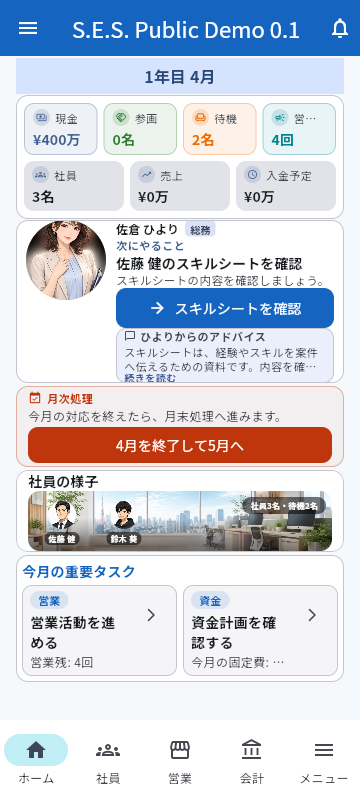
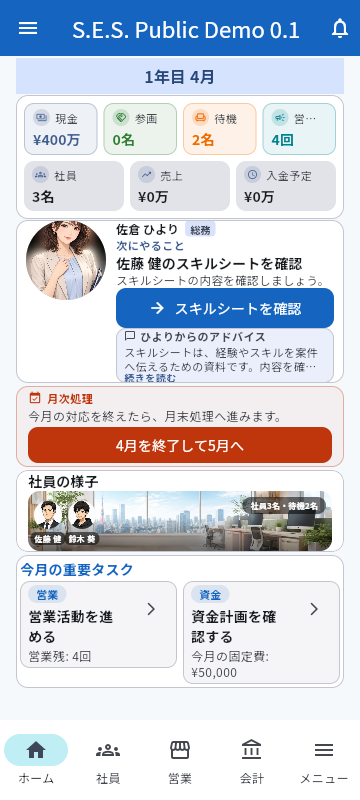
PR #182 Codex P2 fixes: finance-fact wrap, caption-only widen, drop bogus scroll check
Fixes all 3 P2 review comments on PR #182 without opening a new PR.

P2-1 (public_demo_home_presentation_components.dart): the 2-column grid
halved each tile's width, so the finance task's only supporting fact
("今月の固定費: ¥50,000") got ellipsized at maxLines:1, and a lone leftover
task still sat in a half-width Expanded next to an empty reserved half.
Fixed by allowing item.fact to wrap to 2 lines (real production text now
fits at both 360px/390px, confirmed by a new test) and by giving a lone
item the full row instead of an unused reserved half. Reclaimed the extra
height from non-content padding (_ImportantTaskCell and _HomeSectionCard
vertical padding trimmed further) to keep 360x800 maxScrollExtent == 0.

P2-2 (home_office_stage_section.dart): the first name-truncation fix
widened the whole figure *slot* to portraitSize * 2.0, which doubled how
much width every figure reserves from the shared Row -- at 4+ employees
(3 figures + the "+N" chip) that grew enough to intrude under the
top-right headcount summary chip. Fixed by reverting the slot width to
exactly portraitSize (identical to every existing layout-safety
measurement) and instead letting only the name caption paint wider via
OverflowBox, which doesn't add anything to what the figure reserves.
OverflowBox needs an IntrinsicHeight wrapper: left unbounded, it reports
the ambient Column's unbounded height as its own size, which produced a
NaN in Alignment.topCenter's offset math and crashed rendering -- caught
[…]

diff --git a/lib/presentation/home/widgets/home_office_stage_section.dart b/lib/presentation/home/widgets/home_office_stage_section.dart
@@ -407,24 +407,36 @@ class _MemberFigure extends StatelessWidget {
   final HomeOfficeStageMember member;
   final HomeOfficeStageLayout layout;
 
-  /// How much wider than the portrait circle the name label is allowed to
-  /// be.
+  /// How much wider than the portrait circle the name caption is allowed to
+  /// *paint*, without changing how much width this figure *reserves* in the
+  /// figures [Row].
   ///
-  /// SES HOME Final Visual Match: the label used to share the portrait's
+  /// SES HOME Final Visual Match: the caption used to share the portrait's
   /// own width exactly (28-32pt), which left no real room for even a short
   /// two/three-character Japanese name (e.g. real production's "佐藤 健" /
-  /// "鈴木 葵") — every name on the real screen collapsed to a single
-  /// glyph plus an ellipsis ("佐…"/"鈴…"), a meaningless truncation with no
-  /// affordance to read the rest. The name still ellipsises at `maxLines: 1`
-  /// below for a name genuinely too long even at this width (existing "very
-  /// long name" coverage), but a real short name no longer needs to.
-  static const double _labelWidthFactor = 2.0;
+  /// "鈴木 葵") — every name on the real screen collapsed to a single glyph
+  /// plus an ellipsis ("佐…"/"鈴…"), a meaningless truncation with no
+  /// affordance to read the rest.
+  ///
+  /// PR #182 Codex P2: the first fix for that widened the *whole figure
+  /// slot* to `portraitSize * 2.0` — which doubled how much width every
+  /// figure reserves from the shared [Row], so at 4+ engineers (3 figures
+  /// plus the "+N" [_MoreMembersChip]) the row's total reserved width grew
+  /// enough to intrude under the top-right [_HeadcountSummaryChip]. The
+  /// slot [SizedBox] below is back to exactly [HomeOfficeStageLayout
+  /// .portraitSize] — identical to every layout-safety measurement this
+  /// file's tests already pin — and only the caption itself is allowed to
+  /// paint wider, via the [OverflowBox] below, which does not add anything
+  /// to what this figure claims from its siblings or from the chip. The
+  /// name still ellipsises at `maxLines: 1` below for a name genuinely too
+  /// long even at this width (existing "very long name" coverage), but a
+  /// real short name no longer needs to.
+  static const double _captionWidthFactor = 2.0;
 
   @override
   Widget build(BuildContext context) {
-    final labelWidth = layout.portraitSize * _labelWidthFactor;
     return SizedBox(
-      width: labelWidth,
+      width: layout.portraitSize,
       child: Column(
         mainAxisSize: MainAxisSize.min,
         crossAxisAlignment: CrossAxisAlignment.center,
@@ -447,8 +459,10 @@ class _MemberFigure extends StatelessWidget {
           ),
           const SizedBox(height: 3),
           // The label is a single ellipsised line on a translucent pill: it
-          // must never wrap into the portrait above it, and never widen the
-          // figure past [labelWidth].
+          // must never wrap into the portrait above it. It may now paint up
+          // to [_captionWidthFactor] × the portrait's width (via the
+          // [OverflowBox] below) without widening the slot itself — see
+          // this class's own doc above for why that split matters.
           //
           // SES-ISSUE-124: the scene itself is now sized to the compacted
           // HOME budget, not to the original design's generous 2x-scale
@@ -458,27 +472,49 @@ class _MemberFigure extends StatelessWidget {
           // scaling per-employee cards below), so a capped decorative
           // caption over a photo does not cost legibility the way an
           // uncapped body-text control would.
-          DecoratedBox(
-            decoration: BoxDecoration(
-              color: Colors.black54,
-              borderRadius: BorderRadius.circular(6),
-            ),
-            child: Padding(
-              padding: const EdgeInsets.symmetric(horizontal: 4, vertical: 1),
-              child: Text(
-                member.name,
-                key: ValueKey('home-office-stage-name-${member.id}'),
-                style: TextStyle(
-                  color: Colors.white,
-                  fontSize: layout.nameFontSize,
-                  fontWeight: FontWeight.w600,
+          // IntrinsicHeight matters here, not just the OverflowBox: a plain
+          // Column gives a non-flex child an *unbounded* main-axis (height)
+          // constraint, and `OverflowBox` — unlike a normal box — reports
+          // that unbounded incoming maxHeight as its own size whenever a
+          // dimension override is left unset (by design: its whole point is
+          // to decouple its own reported size from its child's). Left
+          // as-is, that infinite self-reported height fed straight into
+          // `Alignment.topCenter`'s offset math ((height - childHeight) / 2
+          // * ...), producing a `NaN` paint offset — a real crash caught by
+          // the existing widget tests. `IntrinsicHeight` measures the
+          // caption's real (finite, text-scale-aware) height first and
+          // hands `OverflowBox` a bounded constraint instead, so only the
+          // width override below is still in effect.
+          IntrinsicHeight(
+            child: OverflowBox(
+              maxWidth: layout.portraitSize * _captionWidthFactor,
+              alignment: Alignment.topCenter,
+              child: DecoratedBox(
+                decoration: BoxDecoration(
+                  color: Colors.black54,
+                  borderRadius: BorderRadius.circular(6),
                 ),
-                maxLines: 1,
-                overflow: TextOverflow.ellipsis,
-                textAlign: TextAlign.center,
-                textScaler: MediaQuery.textScalerOf(
-                  context,
-                ).clamp(maxScaleFactor: 1.15),
+                child: Padding(
+                  padding: const EdgeInsets.symmetric(
+                    horizontal: 4,
+                    vertical: 1,
+                  ),
+                  child: Text(
+                    member.name,
+                    key: ValueKey('home-office-stage-name-${member.id}'),
+                    style: TextStyle(
+                      color: Colors.white,
+                      fontSize: layout.nameFontSize,
+                      fontWeight: FontWeight.w600,
+                    ),
+                    maxLines: 1,
+                    overflow: TextOverflow.ellipsis,
+                    textAlign: TextAlign.center,
+                    textScaler: MediaQuery.textScalerOf(
+                      context,
+                    ).clamp(maxScaleFactor: 1.15),
+                  ),
+                ),
               ),
             ),
           ),

diff --git a/lib/ui/public_demo/public_demo_home_presentation_components.dart b/lib/ui/public_demo/public_demo_home_presentation_components.dart
@@ -86,6 +86,11 @@ class PublicDemoMonthlyPrimaryCtaModel {
 /// by side exactly as the SSOT shows; a third item (when 採用 is also
 /// eligible) starts a second row rather than forcing a 3-wide row that would
 /// cramp every tile's text at 360px.
+///
+/// PR #182 Codex P2: a row with only one item (an odd-length [items], most
+/// often a lone 資金計画 tile once 営業/採用 are both exhausted) used to still
+/// reserve its unused half with an empty `Expanded`, halving that tile's own
+/// width for no reason. That lone tile now spans the full row instead.
 class PublicDemoImportantTasksSection extends StatelessWidget {
   const PublicDemoImportantTasksSection({super.key, required this.items});
 
@@ -100,18 +105,20 @@ class PublicDemoImportantTasksSection extends StatelessWidget {
       children: [
         for (var i = 0; i < items.length; i += 2) ...[
           if (i > 0) const SizedBox(height: 6),
-          Row(
-            crossAxisAlignment: CrossAxisAlignment.start,
-            children: [
-              Expanded(child: _ImportantTaskCell(item: items[i])),
-              const SizedBox(width: 6),
-              Expanded(
-                child: i + 1 < items.length
-                    ? _ImportantTaskCell(item: items[i + 1])
-                    : const SizedBox.shrink(),
-              ),
-            ],
-          ),
+          if (i + 1 < items.length)
+            Row(
+              crossAxisAlignment: CrossAxisAlignment.start,
+              children: [
+                Expanded(child: _ImportantTaskCell(item: items[i])),
+                const SizedBox(width: 6),
+                Expanded(child: _ImportantTaskCell(item: items[i + 1])),
+              ],
+            )
+          else
+            SizedBox(
+              width: double.infinity,
+              child: _ImportantTaskCell(item: items[i]),
+            ),
         ],
       ],
     ),
@@ -137,7 +144,12 @@ class _ImportantTaskCell extends StatelessWidget {
         border: Border.all(color: theme.colorScheme.outlineVariant),
       ),
       child: Padding(
-        padding: const EdgeInsets.fromLTRB(8, 6, 2, 6),
+        // PR #182 Codex P2: trimmed vertical from 6/6 to 4/4 — real card
+        // padding, not text/touch-target room — to buy back headroom for
+        // [item.fact] now genuinely needing a 2nd line (see below) without
+        // reopening the 360x800 no-scroll overflow One-Screen Final Fit
+        // (PR #181) closed.
+        padding: const EdgeInsets.fromLTRB(8, 4, 2, 4),
         child: Row(
           crossAxisAlignment: CrossAxisAlignment.start,
           children: [
@@ -155,12 +167,22 @@ class _ImportantTaskCell extends StatelessWidget {
                     overflow: TextOverflow.ellipsis,
                   ),
                   const SizedBox(height: 2),
+                  // PR #182 Codex P2: this used to be `maxLines: 1`, which
+                  // ellipsized real amounts (e.g. "今月の固定費: ¥50,000")
+                  // at the half-width column this grid gives each tile —
+                  // [item.fact] is the task's only supporting financial
+                  // value, so it must stay fully readable. Two lines is
+                  // real wrap room, not a truncation: every real production
+                  // fact fits within it at both 360px and 390px (checked in
+                  // the focused test), and the `overflow` fallback only
+                  // guards a fact genuinely too long for that, which never
+                  // happens with today's real content.
                   Text(
                     item.fact,
                     style: theme.textTheme.bodySmall?.copyWith(
                       color: theme.colorScheme.onSurfaceVariant,
                     ),
-                    maxLines: 1,
+                    maxLines: 2,
                     overflow: TextOverflow.ellipsis,
                   ),
                 ],
@@ -402,7 +424,11 @@ class _HomeSectionCard extends StatelessWidget {
       // SES HOME One-Screen Final Fit: trimmed again, from 12 — real card
       // padding, not text/touch-target room, and part of closing the
       // 360x800 unscrolled-viewport overflow (see the result report).
-      padding: const EdgeInsets.all(6),
+      //
+      // PR #182 Codex P2: trimmed once more, from 6 — real card padding,
+      // buying back headroom for the important-tasks grid's finance fact
+      // now genuinely needing a 2nd line (see `_ImportantTaskCell`).
+      padding: const EdgeInsets.all(4),
       child: Column(
         crossAxisAlignment: CrossAxisAlignment.start,
         children: [
@@ -413,7 +439,9 @@ class _HomeSectionCard extends StatelessWidget {
               color: accent ? SesTheme.primaryBlue : null,
             ),
           ),
-          const SizedBox(height: 4),
+          // PR #182 Codex P2: trimmed from 4 — real gap, same headroom
+          // reasoning as this card's own padding above.
+          const SizedBox(height: 2),
           child,
         ],
       ),

diff --git a/test/ui/public_demo/public_demo_home_presentation_components_test.dart b/test/ui/public_demo/public_demo_home_presentation_components_test.dart
@@ -202,8 +202,11 @@ void main() {
   );
 
   testWidgets(
-    'important tasks with a single item still renders in the left column, '
-    'with no overflow from the empty right column',
+    // PR #182 Codex P2: a lone item used to still sit in a half-width
+    // `Expanded` beside an empty, reserved right column. It now spans the
+    // full row instead of leaving that half unused.
+    'important tasks with a single item spans the full row width, not a '
+    'half-width column with an empty reserved half',
     (tester) async {
       await tester.pumpWidget(
         host(
@@ -221,7 +224,68 @@ void main() {
         ),
       );
       expect(find.text('資金計画を確認する'), findsOneWidget);
+      expect(find.text('今月の固定費: ¥85,000'), findsOneWidget);
       expect(tester.takeException(), isNull);
+
+      final section = tester.getRect(
+        find.byKey(const Key('public-demo-important-tasks')),
+      );
+      final cta = tester.getRect(
+        find.byKey(const Key('important-task-cta-資金計画を確認する')),
+      );
+      // The lone tile's own trailing CTA sits near the section's right
+      // edge — proof the tile spans (close to) the full row — rather than
+      // stopping around the midpoint the way an unused, still-reserved
+      // right-hand `Expanded` would leave it at.
+      expect(cta.right, greaterThan(section.left + section.width * 0.7));
+    },
+  );
+
+  testWidgets(
+    // PR #182 Codex P2: the 2-column grid's half-width cell used to
+    // ellipsize the finance task's only supporting fact — the real April
+    // production string ("今月の固定費: ¥50,000") — at both target widths.
+    // `item.fact` is now allowed to wrap onto a 2nd line instead of
+    // truncating, so the full amount stays readable.
+    'important tasks: the finance fact stays fully readable (not '
+    'ellipsized) in the 2-column grid at both target widths',
+    (tester) async {
+      for (final width in [360.0, 390.0]) {
+        tester.view.physicalSize = Size(width, 1000);
+        tester.view.devicePixelRatio = 1;
+        addTearDown(tester.view.resetPhysicalSize);
+        addTearDown(tester.view.resetDevicePixelRatio);
+
+        await tester.pumpWidget(
+          host(
+            PublicDemoImportantTasksSection(
+              items: [
+                PublicDemoImportantTaskItem(
+                  title: '営業活動を進める',
+                  fact: '営業残: 4回',
+                  category: '営業',
+                  ctaLabel: '対応する',
+                  onPressed: _noOp,
+                ),
+                PublicDemoImportantTaskItem(
+                  title: '資金計画を確認する',
+                  fact: '今月の固定費: ¥50,000',
+                  category: '資金',
+                  ctaLabel: '確認する',
+                  onPressed: _noOp,
+                ),
+              ],
+            ),
+          ),
+        );
+        expect(tester.takeException(), isNull);
+        expect(
+          find.text('今月の固定費: ¥50,000'),
+          findsOneWidget,
+          reason: 'the full amount must be readable at width $width, not '
+              'ellipsized (e.g. "今月の固定費: ¥5…")',
+        );
+      }
     },
   );
 

diff --git a/test/presentation/home/home_office_stage_section_test.dart b/test/presentation/home/home_office_stage_section_test.dart
@@ -108,6 +108,73 @@ void main() {
     });
   });
 
+  group('PR #182 Codex P2: widened name captions never intrude on the '
+      'headcount summary chip', () {
+    // The first fix for "佐藤 健"/"鈴木 葵" collapsing to "佐…"/"鈴…" widened
+    // the whole figure *slot* (portraitSize * 2.0), which doubled how much
+    // width every figure reserves from the shared Row — at 4+ employees (3
+    // figures plus the "+N" chip), that reserved width grew enough to reach
+    // under the top-right headcount summary chip. This pins the fix: real
+    // names are still painted in full, but neither a name caption nor the
+    // "+N" chip ever overlaps the summary chip, at either target size.
+    for (final size in const [Size(360, 800), Size(390, 844)]) {
+      testWidgets(
+        '${size.width.toInt()}x${size.height.toInt()}: 3 figures + "+N" '
+        'with real names stay clear of the summary chip',
+        (tester) async {
+          await pumpStage(
+            tester,
+            HomeOfficeStageDisplay(
+              members: [
+                member('eng-01', name: '佐藤 健'),
+                member('eng-02', name: '鈴木 葵'),
+                member('emp-3', name: '高橋 花子'),
+                member('emp-4', name: '田中 太郎'),
+              ],
+              employeeCount: 5,
+              waitingCount: 3,
+            ),
+            size: size,
+          );
+          expect(tester.takeException(), isNull);
+
+          // Real short names are painted in full — never collapsed to a
+          // single glyph plus an ellipsis.
+          expect(find.text('佐藤 健'), findsOneWidget);
+          expect(find.text('鈴木 葵'), findsOneWidget);
+          expect(find.text('高橋 花子'), findsOneWidget);
+
+          final chip = tester.getRect(
+            find.byKey(const Key('home-office-stage-headcount-summary')),
+          );
+          final moreChip = tester.getRect(
+            find.byKey(const Key('home-office-stage-more')),
+          );
+          expect(
+            chip.overlaps(moreChip),
+            isFalse,
+            reason:
+                'summary chip $chip overlaps the "+N" chip $moreChip '
+                'at $size',
+          );
+
+          for (final id in ['eng-01', 'eng-02', 'emp-3']) {
+            final nameRect = tester.getRect(
+              find.byKey(ValueKey('home-office-stage-name-$id')),
+            );
+            expect(
+              chip.overlaps(nameRect),
+              isFalse,
+              reason:
+                  'name caption $id ($nameRect) overlaps the summary '
+                  'chip $chip at $size',
+            );
+          }
+        },
+      );
+    }
+  });
+
   group('O: rendering is deterministic', () {
     test(
       'the same roster always selects the same three, in the same order',
